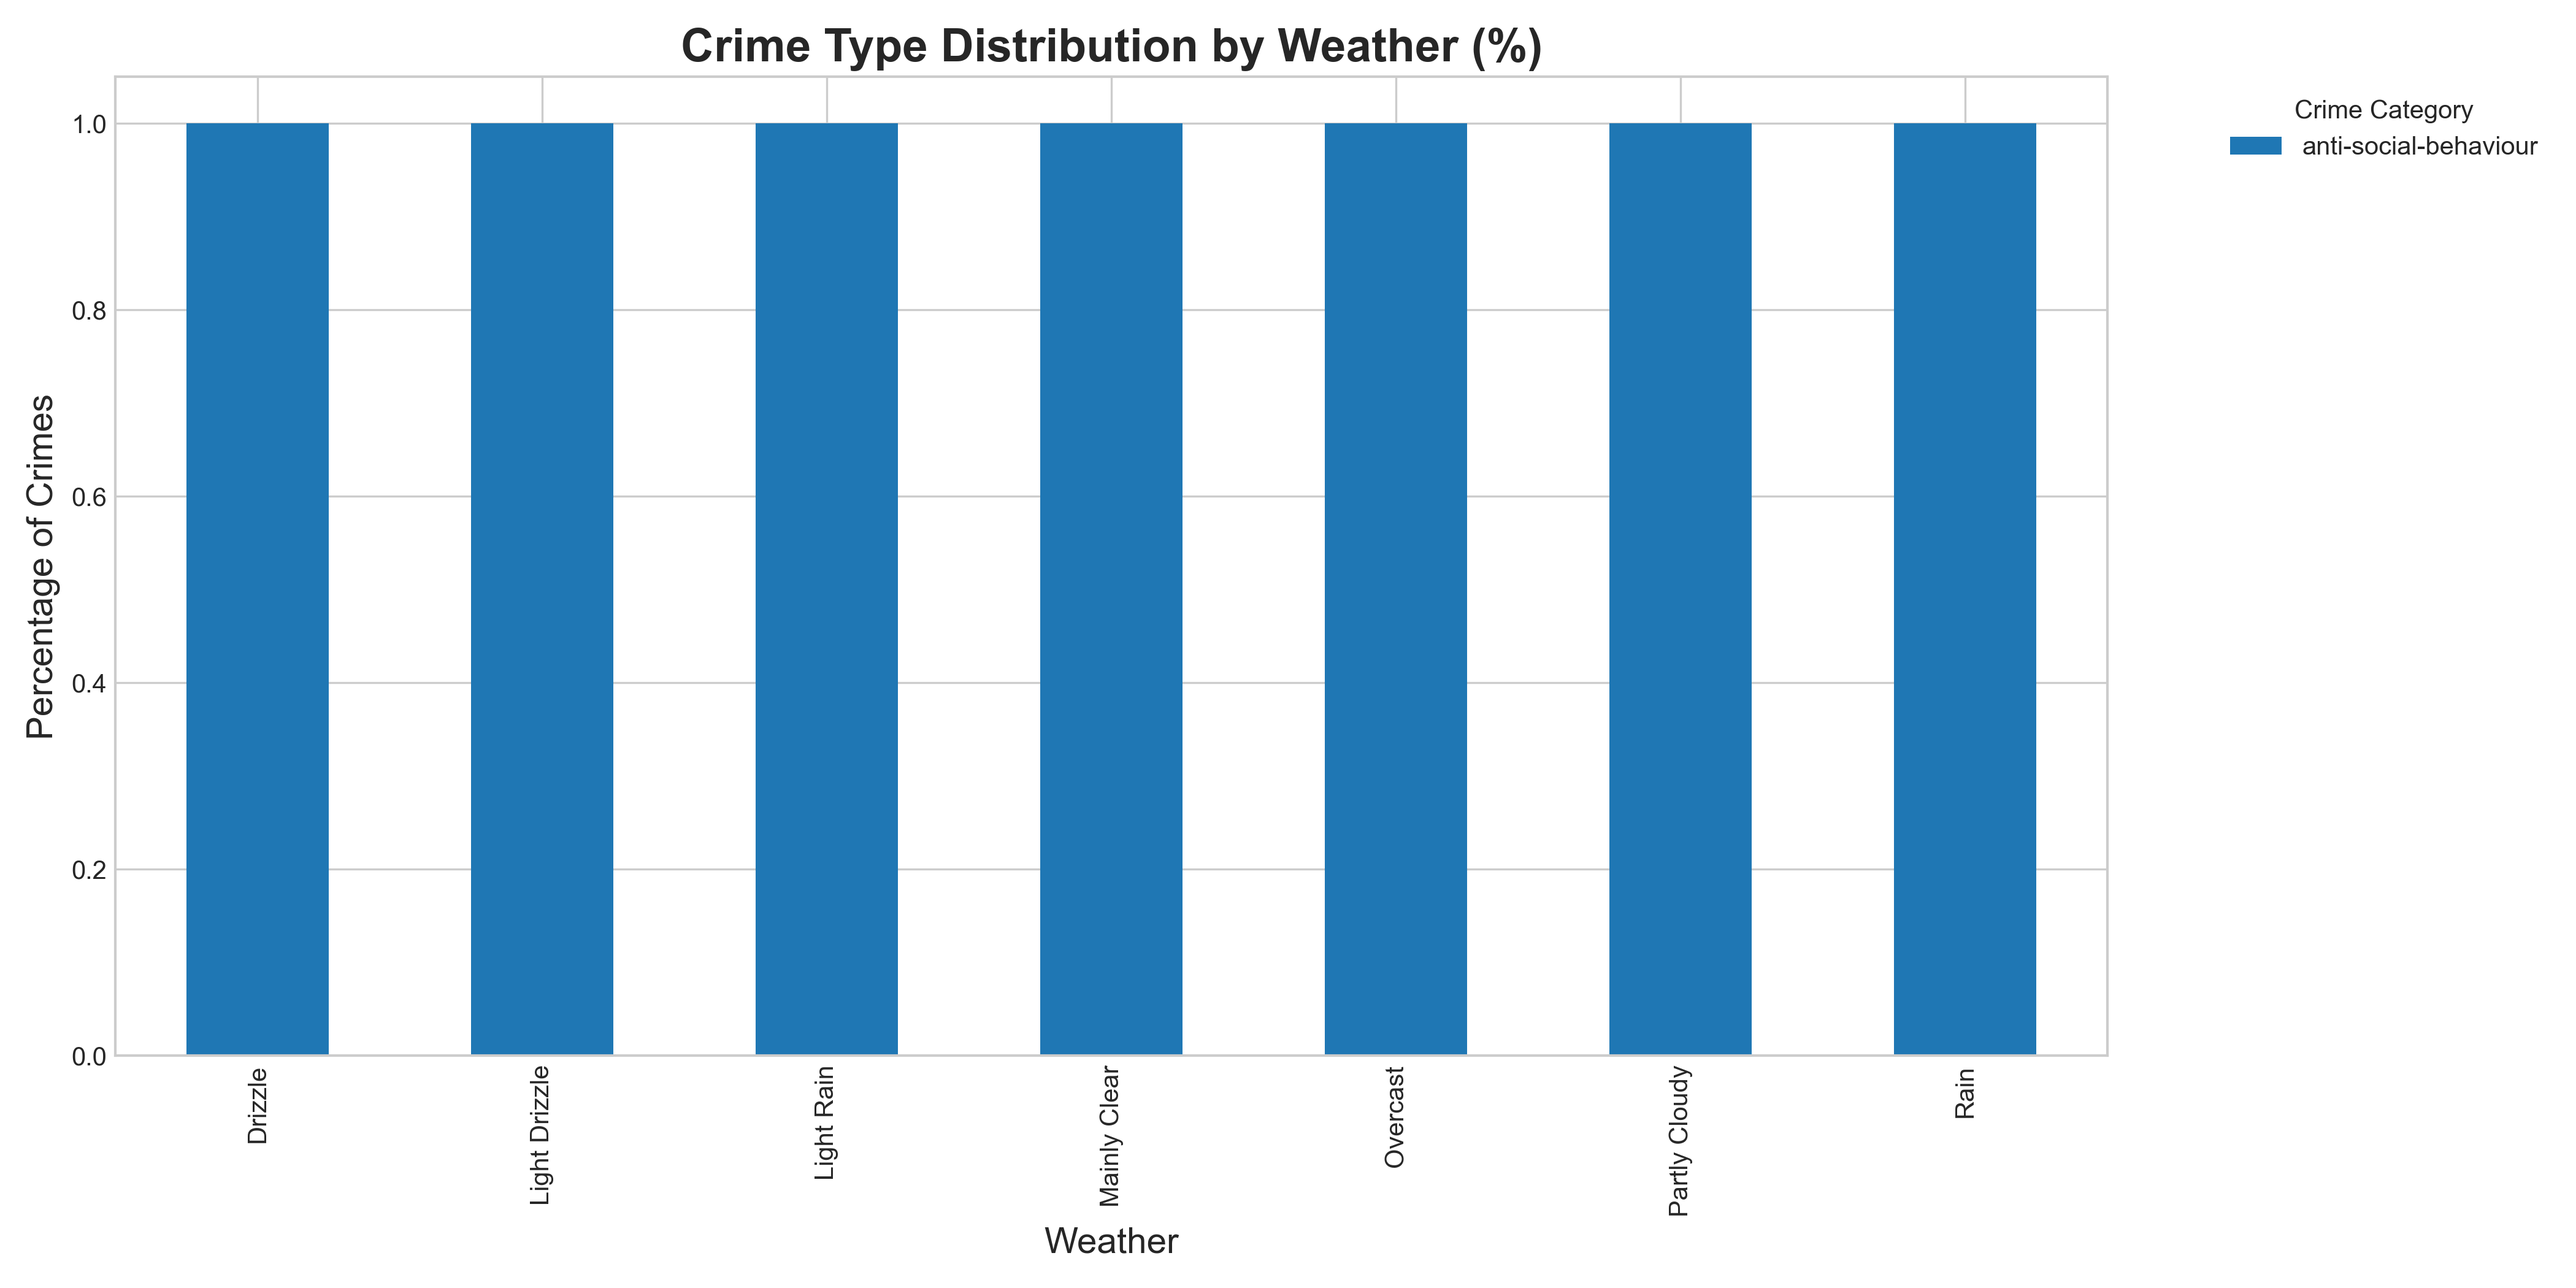
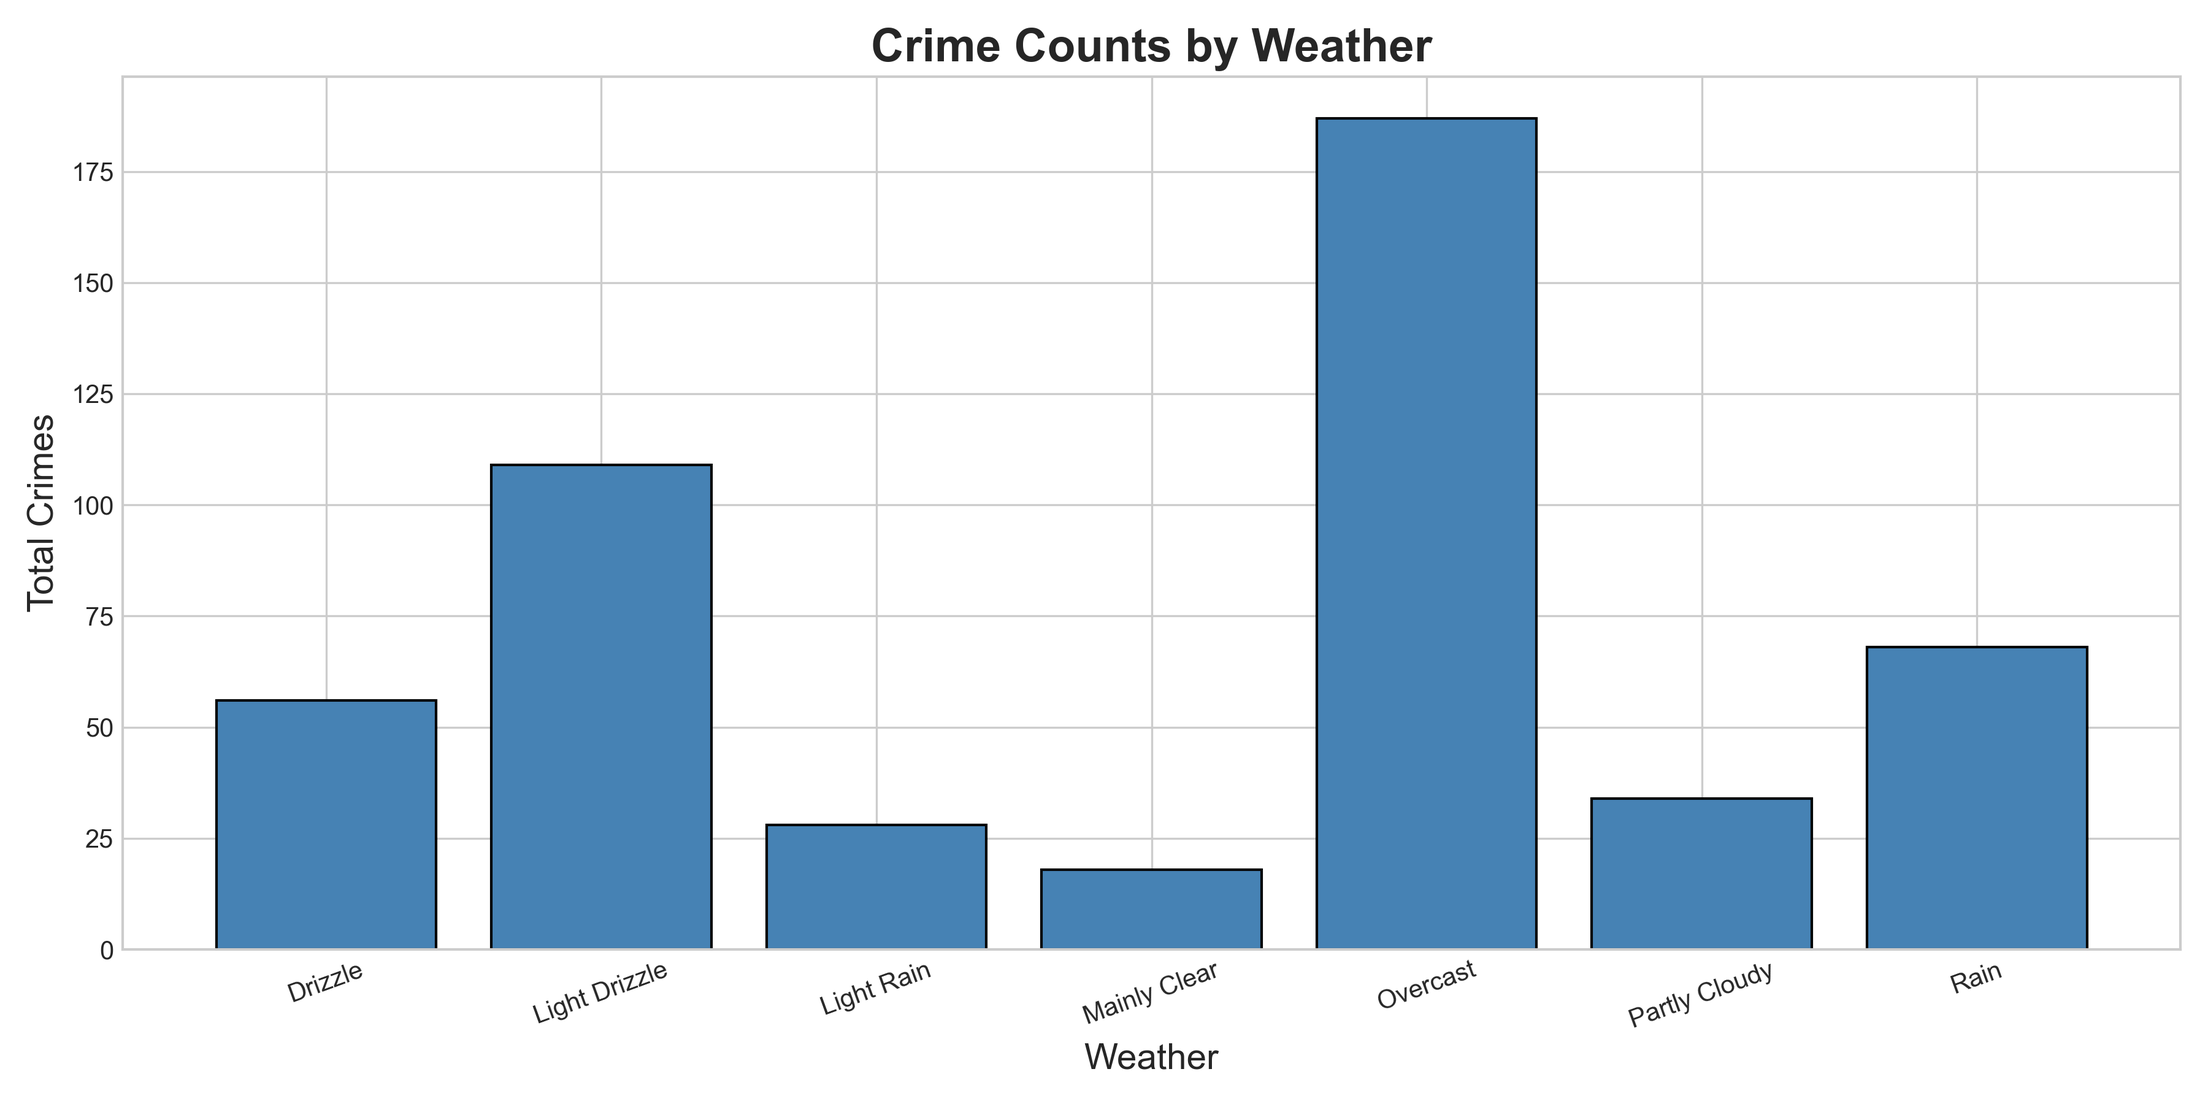
updates to visualizations

diff --git a/src/visualize.py b/src/visualize.py
@@ -62,21 +62,39 @@ def plot_crimes_vs_temperature(df_temp):
 
     col = detect_crime_column(df_temp, "total_crimes")
 
-    x = np.arange(len(df_temp))
-    y = df_temp[col]
-
     plt.figure(figsize=(12, 6))
-    plt.scatter(x, y, s=200, c=y, cmap="coolwarm", edgecolors="black")
 
-    if len(df_temp) > 1:
-        z = np.polyfit(x, y, 1)
-        p = np.poly1d(z)
-        plt.plot(x, p(x), linestyle="--", color="gray")
+    if "temp_c" in df_temp.columns:
+        x = df_temp["temp_c"]
+        y = df_temp[col]
+        plt.scatter(x, y, s=60, c=y, cmap="coolwarm", edgecolors="black", alpha=0.8)
 
-    plt.title("Crimes by Temperature Range", fontsize=18, weight="bold")
-    plt.xlabel("Temperature Bin (°C)", fontsize=14)
+        if len(df_temp) > 1:
+            try:
+                z = np.polyfit(x, y, 1)
+                plt.plot(x, np.poly1d(z)(x), linestyle="--", color="gray")
+            except np.linalg.LinAlgError:
+                pass
+
+        plt.xlabel("Average Temperature (°C)", fontsize=14)
+        plt.title("Crimes vs Temperature (per location/day)", fontsize=18, weight="bold")
+    else:
+        # Fallback to bin-based display
+        x = np.arange(len(df_temp))
+        y = df_temp[col]
+
+        plt.scatter(x, y, s=200, c=y, cmap="coolwarm", edgecolors="black")
+
+        if len(df_temp) > 1:
+            z = np.polyfit(x, y, 1)
+            p = np.poly1d(z)
+            plt.plot(x, p(x), linestyle="--", color="gray")
+
+        plt.xticks(x, df_temp["temp_bin"], rotation=15)
+        plt.xlabel("Temperature Bin (°C)", fontsize=14)
+        plt.title("Crimes by Temperature Range", fontsize=18, weight="bold")
+
     plt.ylabel("Total Crimes", fontsize=14)
-    plt.xticks(x, df_temp["temp_bin"], rotation=15)
 
     plt.tight_layout()
     plt.savefig("temp_vs_crime.png", dpi=300)
@@ -98,6 +116,20 @@ def plot_crime_type_distribution(df_types):
         aggfunc="sum",
         fill_value=0
     )
+
+    if pivot.shape[1] <= 1:
+        # Only a single category present → show raw counts instead of a flat 100% stack.
+        plt.figure(figsize=(12, 6))
+        series = pivot.iloc[:, 0]
+        plt.bar(series.index, series.values, color="steelblue", edgecolor="black")
+        plt.title("Crime Counts by Weather", fontsize=18, weight="bold")
+        plt.xlabel("Weather", fontsize=14)
+        plt.ylabel("Total Crimes", fontsize=14)
+        plt.xticks(rotation=20)
+        plt.tight_layout()
+        plt.savefig("crime_type_stacked.png", dpi=300)
+        plt.close()
+        return
 
     pivot_pct = pivot.div(pivot.sum(axis=1), axis=0)
 

diff --git a/src/analysis.py b/src/analysis.py
@@ -29,24 +29,21 @@ def calculate_crimes_by_weather(conn):
 
 def calculate_crimes_by_temperature_bins(conn):
     """
-    Group crimes by temperature_bin:
-        <5°C, 5–10°C, 10–15°C, 15–20°C, >20°C
+    Return per-location, per-day crime counts linked to the actual average
+    temperature for that day. This gives many data points for visualization.
     """
     query = """
         SELECT
-            CASE
-                WHEN W.temp_c < 5 THEN '<5°C'
-                WHEN W.temp_c BETWEEN 5 AND 10 THEN '5–10°C'
-                WHEN W.temp_c BETWEEN 10 AND 15 THEN '10–15°C'
-                WHEN W.temp_c BETWEEN 15 AND 20 THEN '15–20°C'
-                ELSE '>20°C'
-            END AS temp_bin,
+            W.location_id,
+            W.date AS weather_date,
+            W.temp_c,
             COUNT(C.id) AS total_crimes
-        FROM CrimeData C
-        JOIN WeatherData W ON C.location_id = W.location_id
-                           AND C.crime_date = W.date
-        GROUP BY temp_bin
-        ORDER BY total_crimes DESC;
+        FROM WeatherData W
+        LEFT JOIN CrimeData C ON C.location_id = W.location_id
+                             AND C.crime_date = W.date
+        WHERE W.temp_c IS NOT NULL
+        GROUP BY W.location_id, W.date, W.temp_c
+        ORDER BY W.date ASC, W.location_id ASC;
     """
 
     df = pd.read_sql_query(query, conn)

diff --git a/src/main.py b/src/main.py
@@ -9,7 +9,9 @@ from src.fetch_weather import fetch_weather_for_all_locations
 from src.analysis import (
     calculate_crimes_by_weather,
     calculate_crimes_by_temperature_bins,
-    calculate_crime_type_distribution
+    calculate_crime_type_distribution,
+    calculate_crimes_vs_wind,
+    calculate_precipitation_effect
 )
 
 from src.visualize import visualize_results
@@ -56,6 +58,8 @@ def main():
     df_weather_types = calculate_crimes_by_weather(conn)
     df_temp_bins = calculate_crimes_by_temperature_bins(conn)
     df_type_dist = calculate_crime_type_distribution(conn)
+    df_wind = calculate_crimes_vs_wind(conn)
+    df_precip = calculate_precipitation_effect(conn)
 
     print("Analysis DataFrames created successfully.")
 
@@ -67,7 +71,9 @@ def main():
     visualize_results(
         df_weather_types,
         df_temp_bins,
-        df_type_dist
+        df_type_dist,
+        df_wind,
+        df_precip
     )
 
     conn.close()

diff --git a/finalproject.py b/finalproject.py
@@ -6,7 +6,9 @@ from src.fetch_weather import fetch_weather_for_all_locations
 from src.analysis import (
     calculate_crimes_by_weather,
     calculate_crimes_by_temperature_bins,
-    calculate_crime_type_distribution
+    calculate_crime_type_distribution,
+    calculate_crimes_vs_wind,
+    calculate_precipitation_effect
 )
 from src.visualize import visualize_results
 
@@ -79,10 +81,12 @@ def main():
     df_weather = calculate_crimes_by_weather(conn)
     df_temp = calculate_crimes_by_temperature_bins(conn)
     df_types = calculate_crime_type_distribution(conn)
+    df_wind = calculate_crimes_vs_wind(conn)
+    df_rain = calculate_precipitation_effect(conn)
 
     # Visualizations
     print("Generating visualizations...")
-    visualize_results(df_weather, df_temp, df_types)
+    visualize_results(df_weather, df_temp, df_types, df_wind, df_rain)
 
     print("Done! Visualizations saved.")
 
